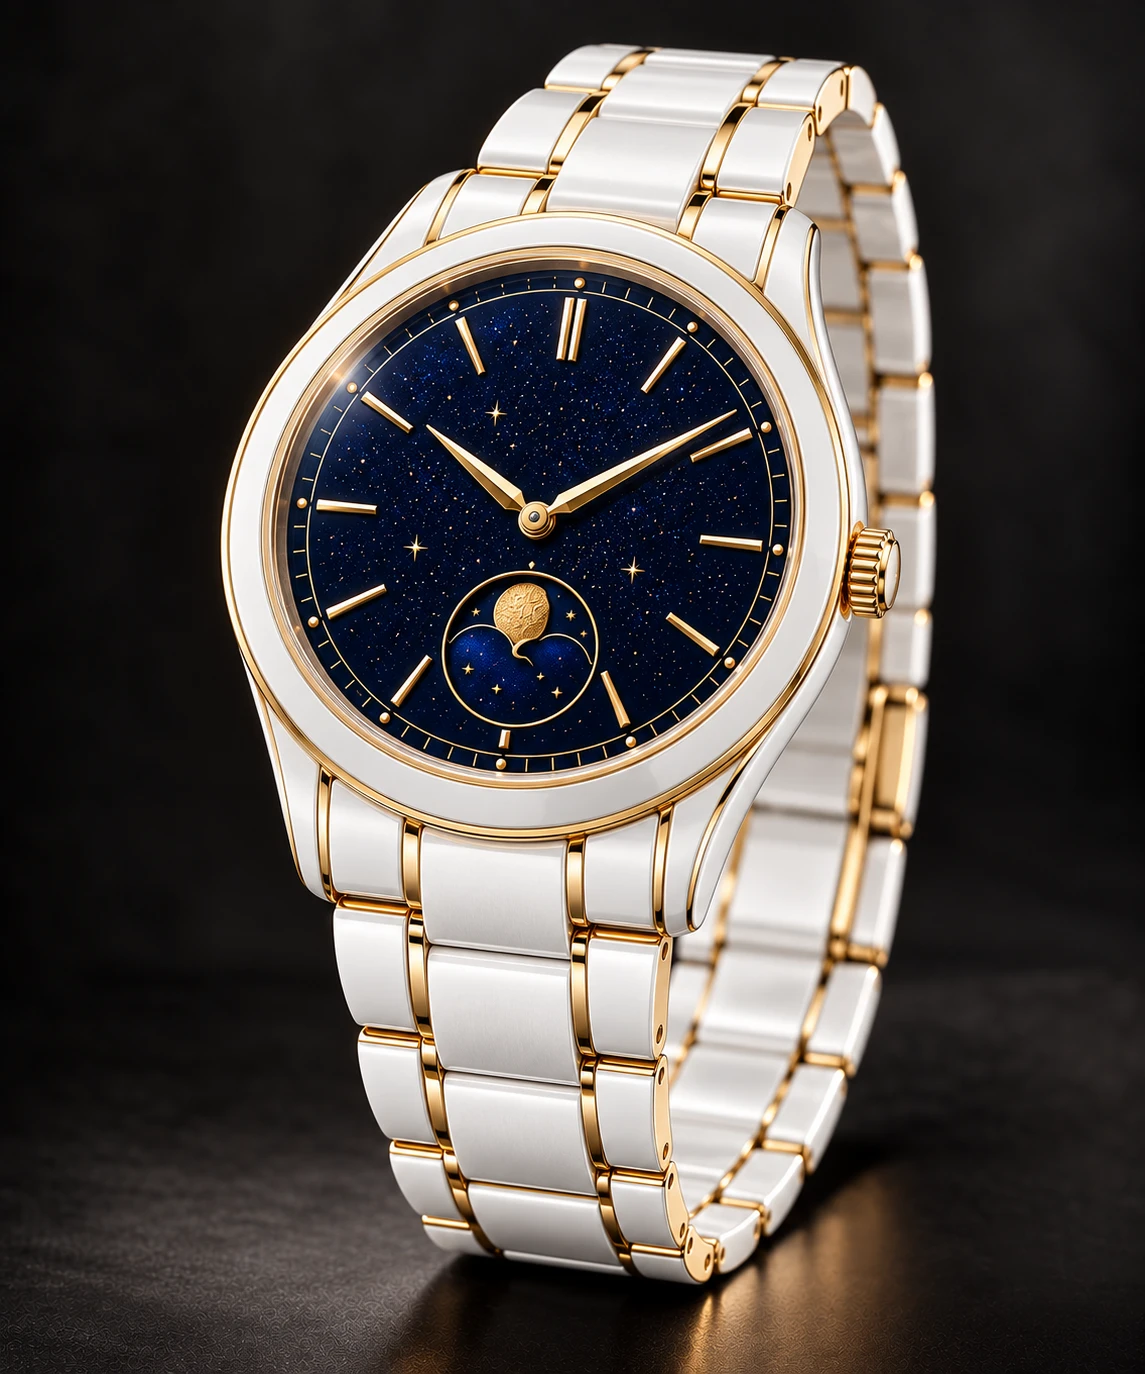
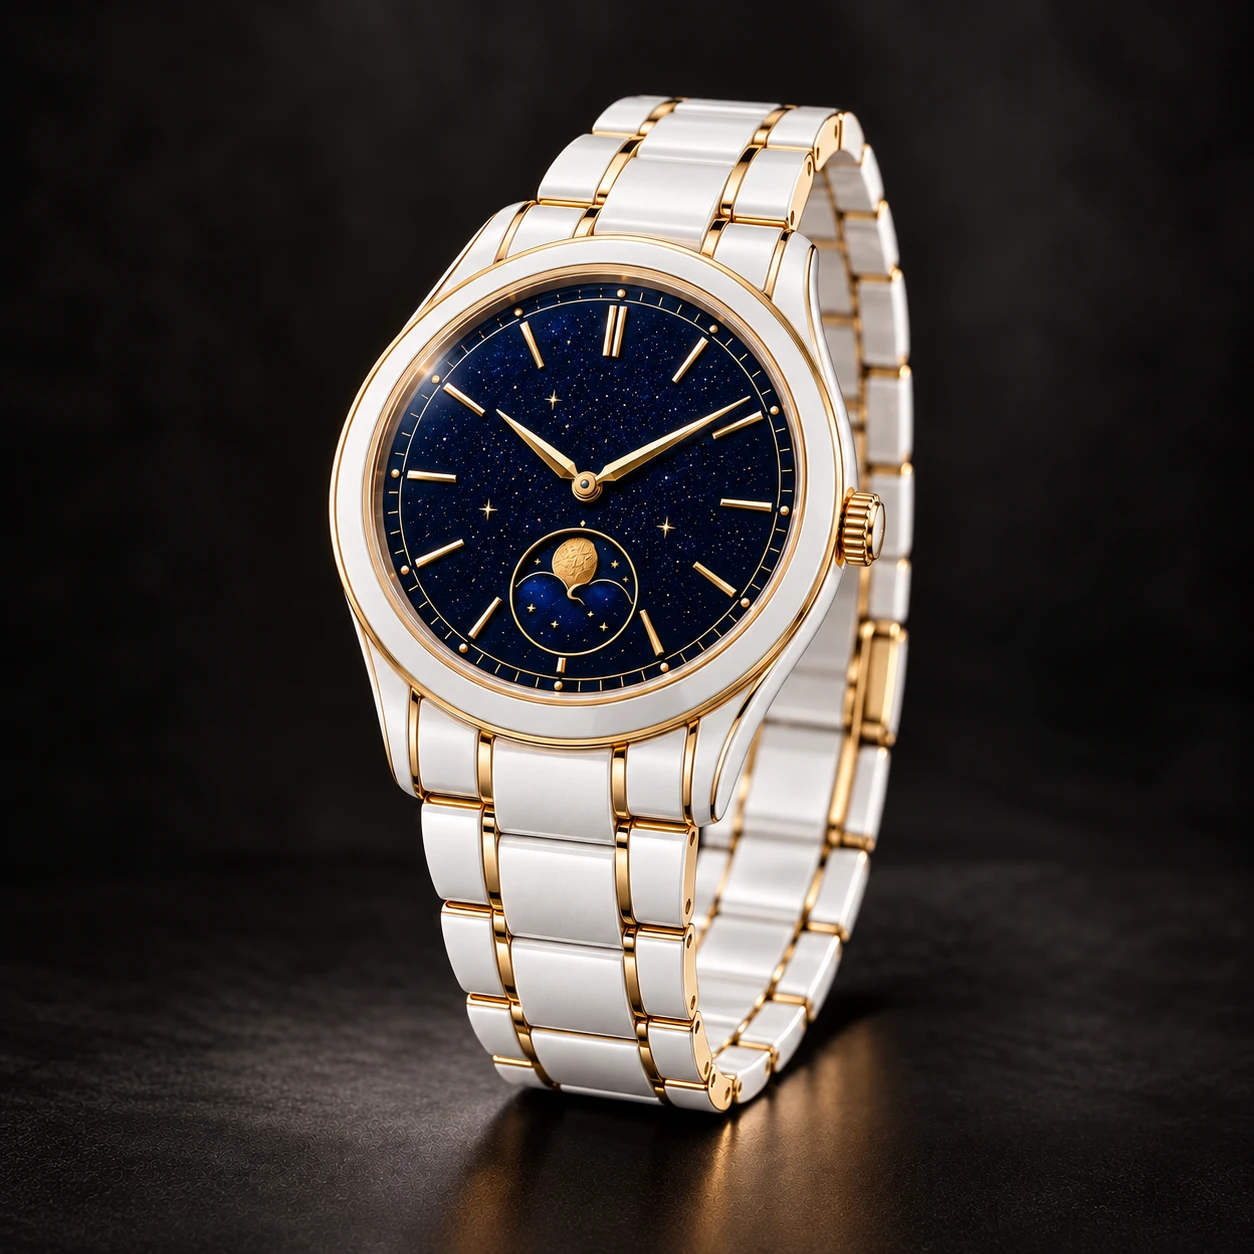
Extend Selene background for seamless square product framing

diff --git a/storefront.css b/storefront.css
@@ -53,7 +53,6 @@ h2{font-family:Georgia,serif;font-size:40px;font-weight:normal;line-height:1.2;m
 .products{display:grid;grid-template-columns:repeat(3,minmax(0,1fr));gap:26px}
 .product-image{aspect-ratio:1/1;position:relative;background:#131918;overflow:hidden}
 .product-image img{width:100%;height:100%;object-fit:cover;object-position:center;display:block;transition:transform .5s}
-.product-image img[src="assets/watches/midnight-moonphase.webp"]{object-fit:contain}
 .product-image:hover img{transform:scale(1.04)}
 .badge{position:absolute;top:16px;left:16px;max-width:calc(100% - 32px);background:var(--paper);padding:8px 12px;font-size:11px}
 .product-info{padding-top:21px;display:flex;justify-content:space-between;gap:12px}

diff --git a/README.md b/README.md
@@ -85,7 +85,7 @@ Navigation and playback icons use Lucide geometry; its license is included in `a
 
 The uploaded collage is preserved as `sources/merlock-five-watch-collection.png`. Its five panels are cropped without the dividing lines into optimized WebP files in `assets/watches/`. The Verdant, Mariner, Obsidian, Argent and Voyager join the two existing watches in the storefront, search, checkout and admin catalogue. Names, prices and initial stock levels are illustrative and editable in admin; descriptions refer to the visible designs rather than verified specifications.
 
-Returning browsers receive the five new listings once without changing existing products, custom edits or order snapshots. Once saved, the migration marker also preserves later edits and deletions to the new products. Product cards use centered square framing, trimming excess landscape background while preserving the watches. The tall Selene photo fits within the square to preserve its bracelet. The Aster listing and its skeleton image have been removed; historical order snapshots remain intact.
+Returning browsers receive the five new listings once without changing existing products, custom edits or order snapshots. Once saved, the migration marker also preserves later edits and deletions to the new products. Product cards use centered square framing, trimming excess landscape background while preserving the watches. The Selene photo has a seamlessly extended square studio background, preserving its whole bracelet and matching the other product cards without side bars. The Aster listing and its skeleton image have been removed; historical order snapshots remain intact.
 
 ## Background piano
 
